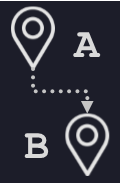
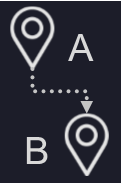
Finished styling directions, could not style A->B markers, scroll bar on X removed. Could not style Y scrollbar.

diff --git a/newhtml/jamie/assets/stylesheets/main.css b/newhtml/jamie/assets/stylesheets/main.css
@@ -121,3 +121,37 @@ TODO: look nicer*/
     background-color: #FFF;
     transform: rotate(-45deg);
 }
+.mapboxgl-ctrl-geocoder ul > li:last-child > a { border-bottom:none; }
+    .mapboxgl-ctrl-geocoder ul > li.active > a,
+    .mapboxgl-ctrl-geocoder ul > li > a:hover {
+      background-color:#353d4a !important;
+  }
+
+#mapbox-directions-origin-input{
+  background-color: #1d1c29 !important;
+}
+
+#mapbox-directions-origin-input > div:nth-child(1) > ul:nth-child(3){
+  z-index: 1000;
+  position: relative;
+}
+
+/* loading icon redirect*/
+
+.geocoder-icon-loading {
+  background-color: #1d1c29 !important;
+  }
+
+li.mapbox-directions-step:nth-child(1) > span:nth-child(1){
+  background-image: url(../img/OnMapA.png) !important;
+  background-size: 25px 20px;
+}
+
+.mapbox-directions-instructions{
+    overflow-x: hidden;
+    overflow-y: scroll;
+}
+.mapbox-directions-instructions::-webkit-scrollbar {width: 10px;}
+
+.mapbox-directions-instructions::-webkit-scrollbar-track { // set style to trackbackground : #555999;border-radius: 10px;}
+.mapbox-directions-instructions::-webkit-scrollbar-thumb { // sets style to thumbbackground : rgba(255,255,255,0.5);border-radius: 10px;box-shadow:  0 0 6px rgba(0, 0, 0, 0.5);}
